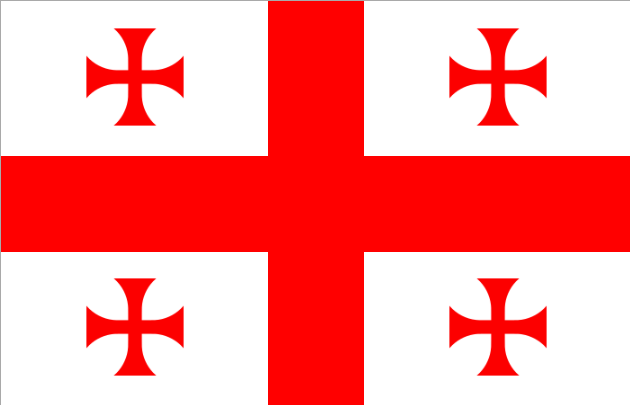
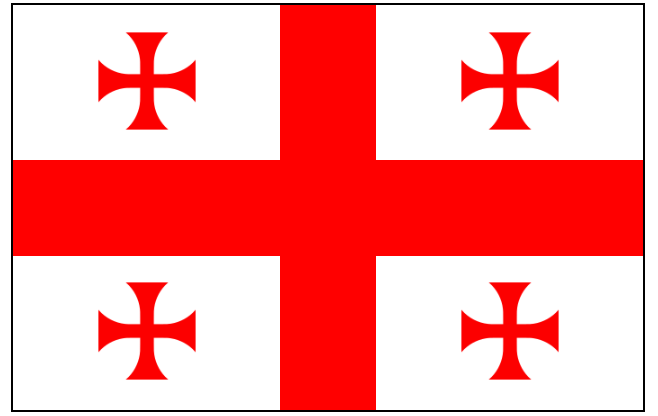
Update README.MD

diff --git a/style.css b/style.css
@@ -5,7 +5,7 @@ body {
   display: flex;
   align-items: center;
   justify-content: center;
-  background-color: darkgray;
+  background-color: white;
 }
 
 #flag {
@@ -15,6 +15,7 @@ body {
   background-color: white;
   display: flex;
   flex-wrap: wrap;
+  border: 2px black solid;
 }
 
 .square {

diff --git a/README.MD b/README.MD
@@ -1,6 +1,6 @@
 <h1 align="center">
     Original:<br><br>
-    <img alt="Georgia Flag" title="Georgia Flag" src="https://upload.wikimedia.org/wikipedia/commons/thumb/0/0f/Flag_of_Georgia.svg/1200px-Flag_of_Georgia.svg.png" width="220px" />
+    <img alt="Georgia Flag" title="Georgia Flag" src="https://w7.pngwing.com/pngs/21/416/png-transparent-democratic-republic-of-georgia-turkey-europe-flag-of-georgia-plus-border-flag-rectangle.png" width="220px" />
 </h1>
 
 <p align="center">
